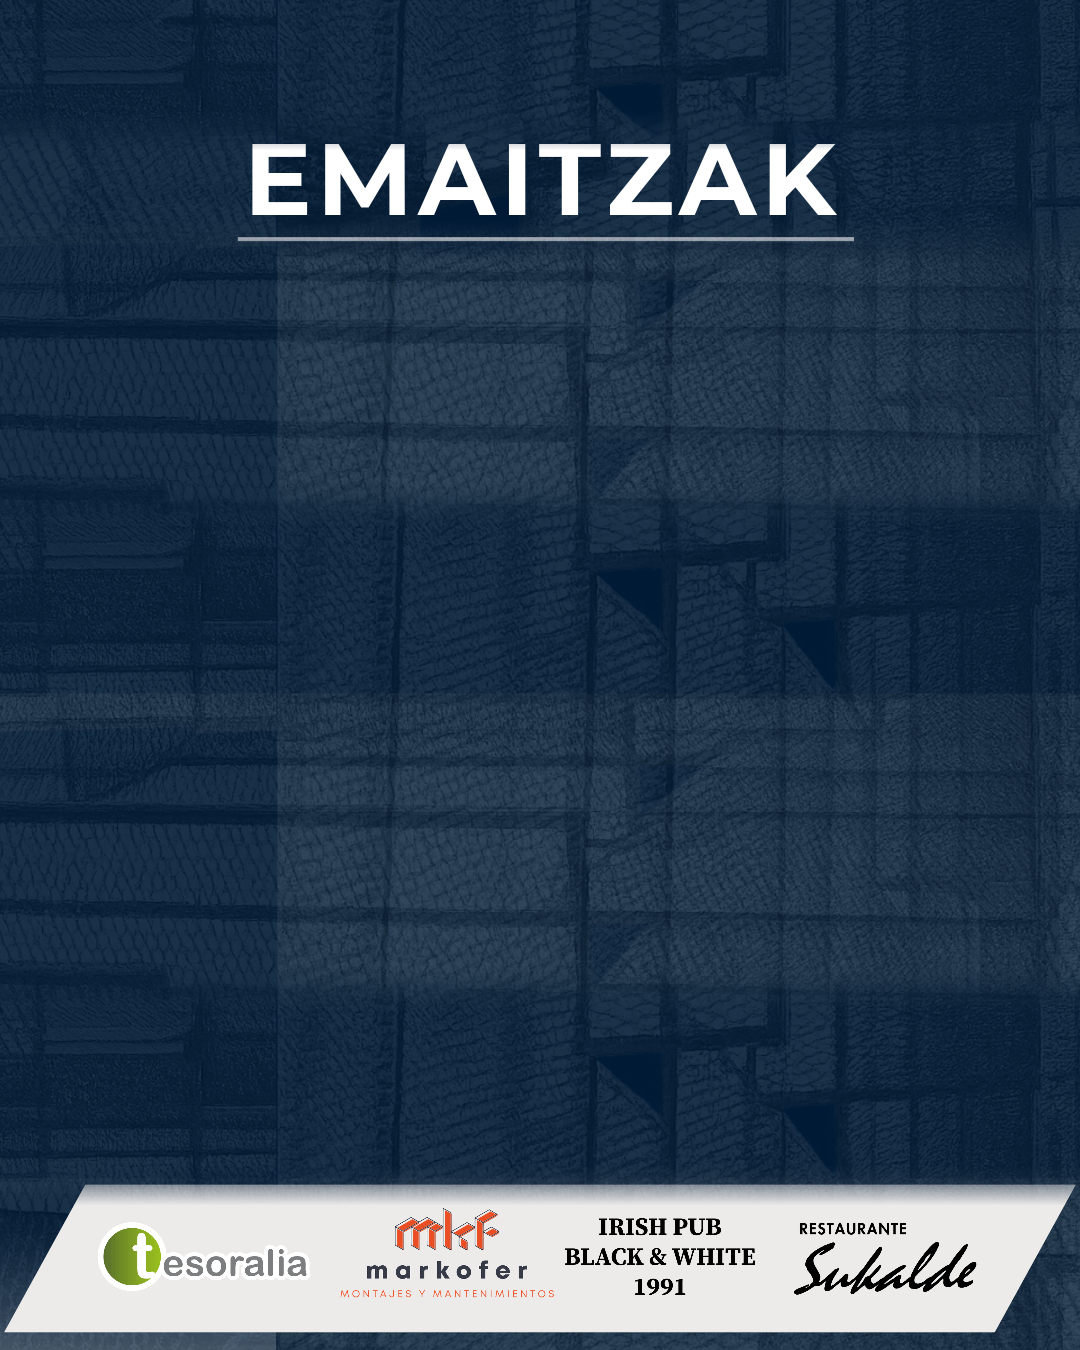
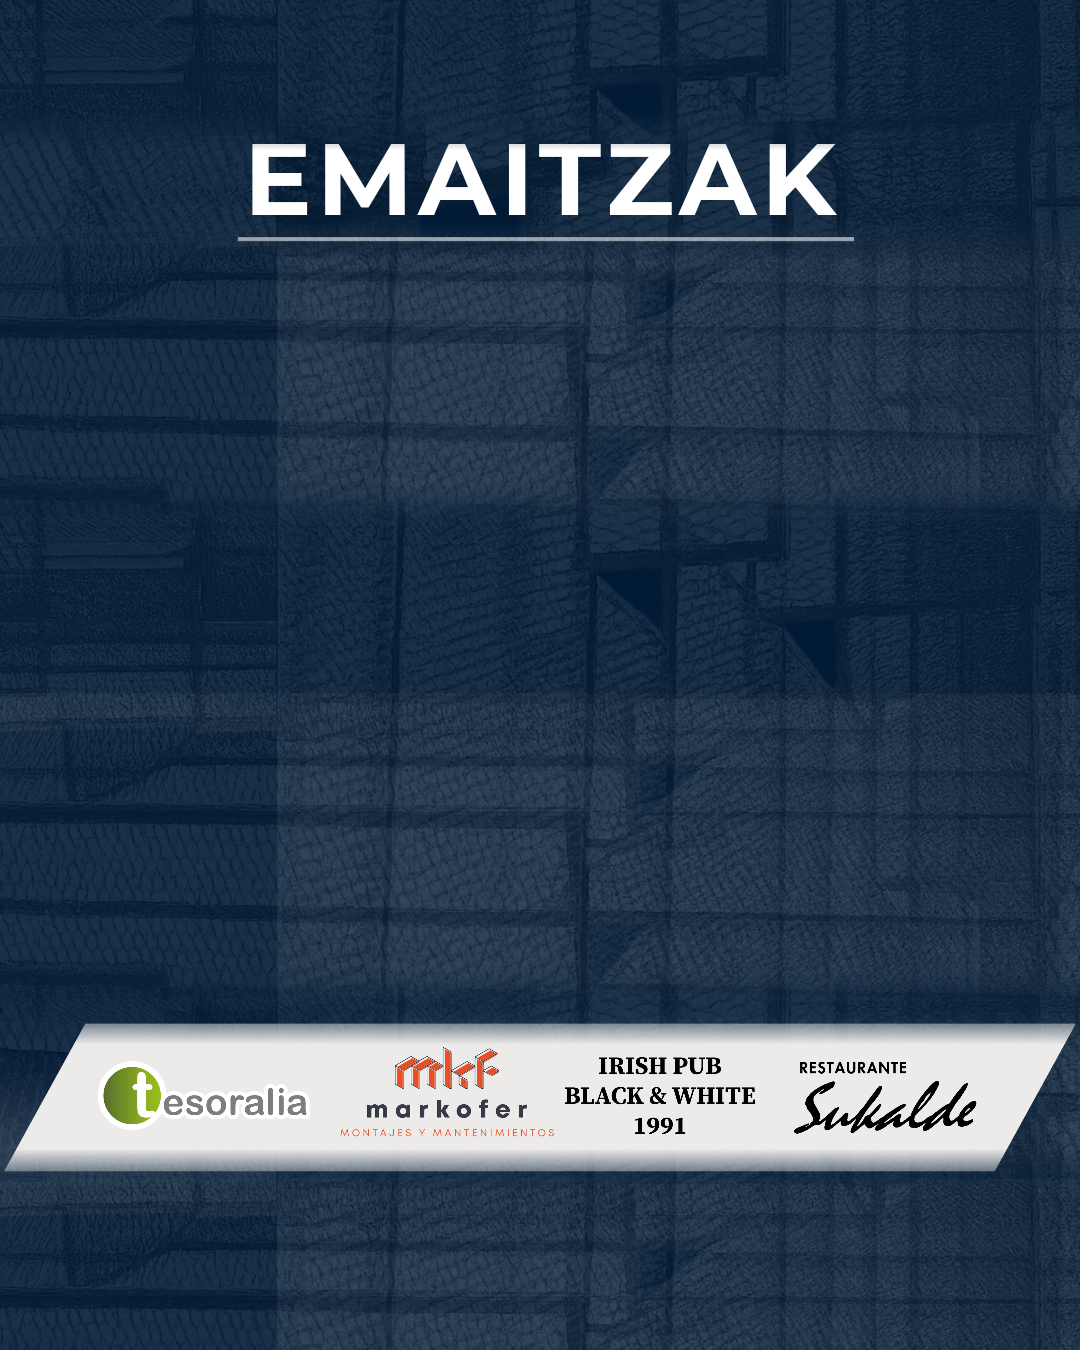
EMAITZAK: banda de patrocinadores más arriba y filas más grandes, como las publicaciones del club
Claude-Session: https://claude.ai/code/session_01HGhHxNaaRD1kMFHjNqCnKz

Changed region(s): [[0.0, 0.7467, 1.0, 1.0]]

diff --git a/redes/plantillas/estilos.css b/redes/plantillas/estilos.css
@@ -31,6 +31,7 @@ main { position: relative; height: 100%; display: flex; flex-direction: column; 
 /* ------------------------------------------------ EMAITZAK (la cinta es la de la plantilla de Canva) */
 
 .partido { position: absolute; left: 0; width: 100%; height: 80px; }
+.post .partido { transform: scale(1.08); transform-origin: 540px 40px; }   /* en el post, algo más grandes, como las publicaciones del club */
 .partido img { position: absolute; left: 104px; top: -20px; }
 .equipo { position: absolute; top: 18px; width: 236px; overflow: hidden; white-space: nowrap; text-align: center;
   font-size: 33px; font-weight: 800; letter-spacing: .5px; color: #fff; }

diff --git a/redes/preparar_fondos.py b/redes/preparar_fondos.py
@@ -34,8 +34,9 @@ FUNDIDO = 40                 # px de transición suave al pegar unas franjas sob
 PIEZAS = {
     "ordutegia": {"origen": HORARIOS, "titulo": (120, 270), "banda": (1070, 1262),
                   "post": (120, 1070), "historia": (370, 1560)},
+    # En el post de resultados la banda va más arriba que en la plantilla de Canva, como en las publicaciones del club
     "emaitzak": {"origen": RESULTADOS, "titulo": (110, 262), "banda": (1165, 1350),
-                 "post": (110, 1165), "historia": (360, 1580)},
+                 "post": (110, 1004), "historia": (360, 1580)},
 }
 ALTO = {"post": 1350, "historia": 1920}
 

diff --git a/redes/generar_redes.py b/redes/generar_redes.py
@@ -167,8 +167,8 @@ def pagina(cuerpo, formato, clase):
 # Son las medidas de las plantillas de Canva; en la historia, desplazadas como el título.
 # Las filas se reparten por toda la zona entre el título y los patrocinadores (más separadas si hay pocas).
 ZONA_ORDUTEGIA = {"post": (300, 1045), "historia": (520, 1530)}
-ZONA_EMAITZAK = {"post": (290, 1150), "historia": (534, 1560)}
-ALTO_FILA = {"ordutegia": 66, "emaitzak": 80}
+ZONA_EMAITZAK = {"post": (308, 1000), "historia": (534, 1560)}
+ALTO_FILA = {"ordutegia": 66, "emaitzak": 86}
 PASO_MAXIMO = {"ordutegia": 125, "emaitzak": 200}
 
 
